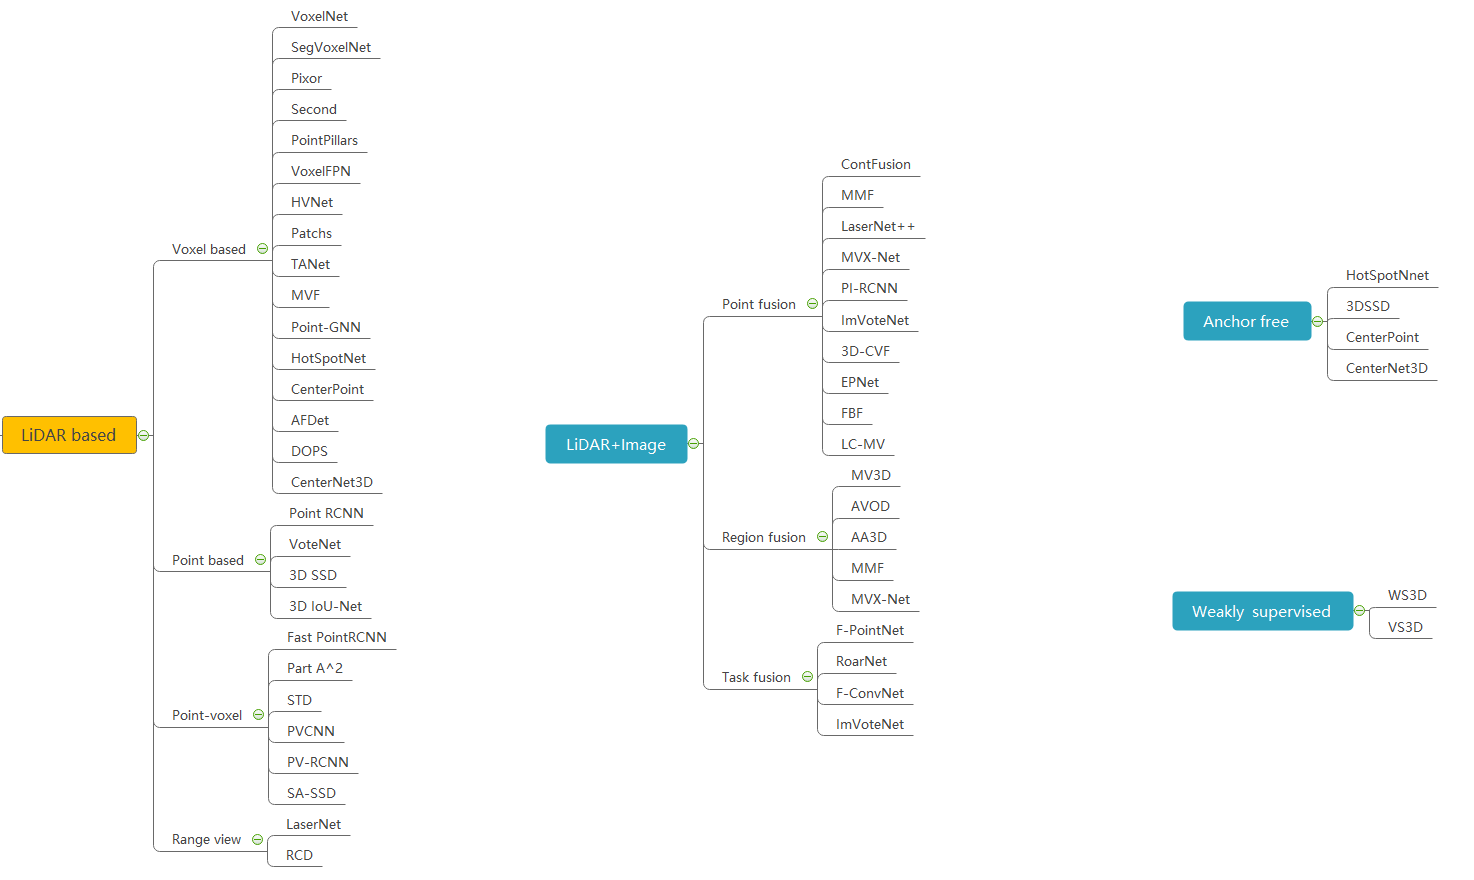
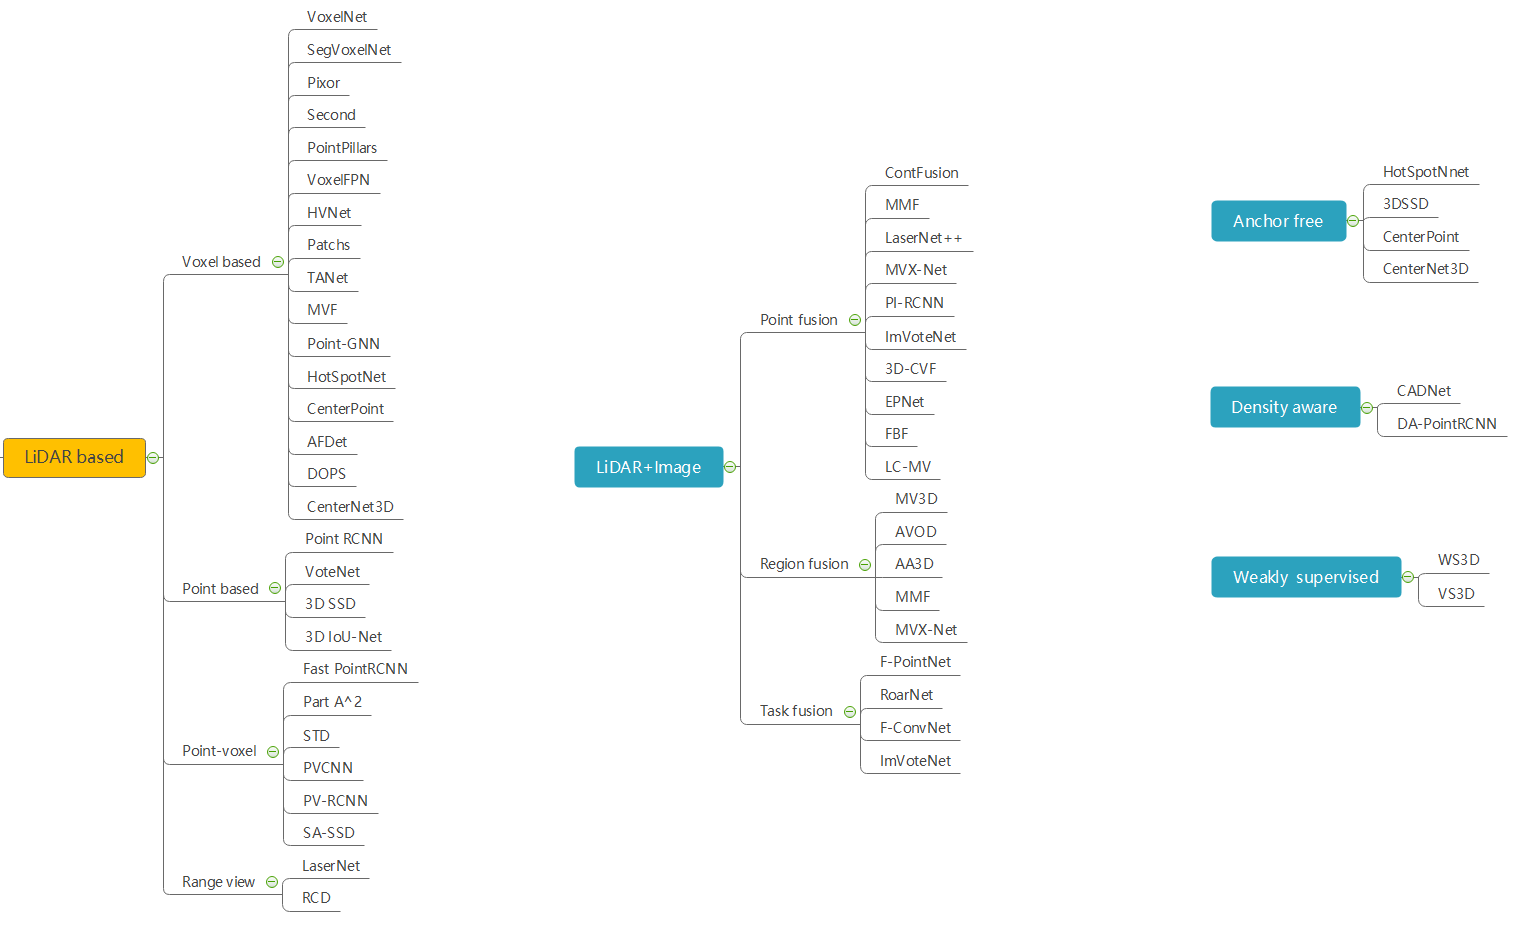
add DA-PointRCNN and density-aware category

diff --git a/readme.md b/readme.md
@@ -8,6 +8,8 @@ This is a paper and code list of some awesome 3D detection methods. We mainly co
 
 ## News
 
+*2020.11.25* p.m. Add **DA-PointRCNN**
+
 *2020.11.18 p.m.* Add **MVAF-Net**
 
 *2020.11.18 p.m.* Add **CADNet** which proposes a context-aware and dynamic feature extraction method to handle the variance of density in point clouds.
@@ -15,6 +17,8 @@ This is a paper and code list of some awesome 3D detection methods. We mainly co
 
 
 ## Paper list
+
+
 
 
 
@@ -78,6 +82,7 @@ This is a paper and code list of some awesome 3D detection methods. We mainly co
 | **RangeRCNN** (RangeRCNN: Towards Fast and Accurate 3D Object Detection with Range Image Representation) | arxiv2020.09       | L     |
 | **MVAF-Net** (Multi-View Adaptive Fusion Network for 3D Object Detection) | arxiv2020.11       | I+L   |
 | **CADNet** ([Context-Aware Dynamic Feature Extraction for 3D Object Detection in  Point Clouds](http://arxiv.org/abs/1912.04775v3)) | arxiv2020.07       | L     |
+| DA-PointRCNN ([A Density-Aware PointRCNN for 3D Objection Detection in Point Clouds](https://arxiv.org/pdf/2009.05307.pdf)) | axiv2020.09        | L     |
 | To be continued...                                           |                    |       |
 
 ## Code list
